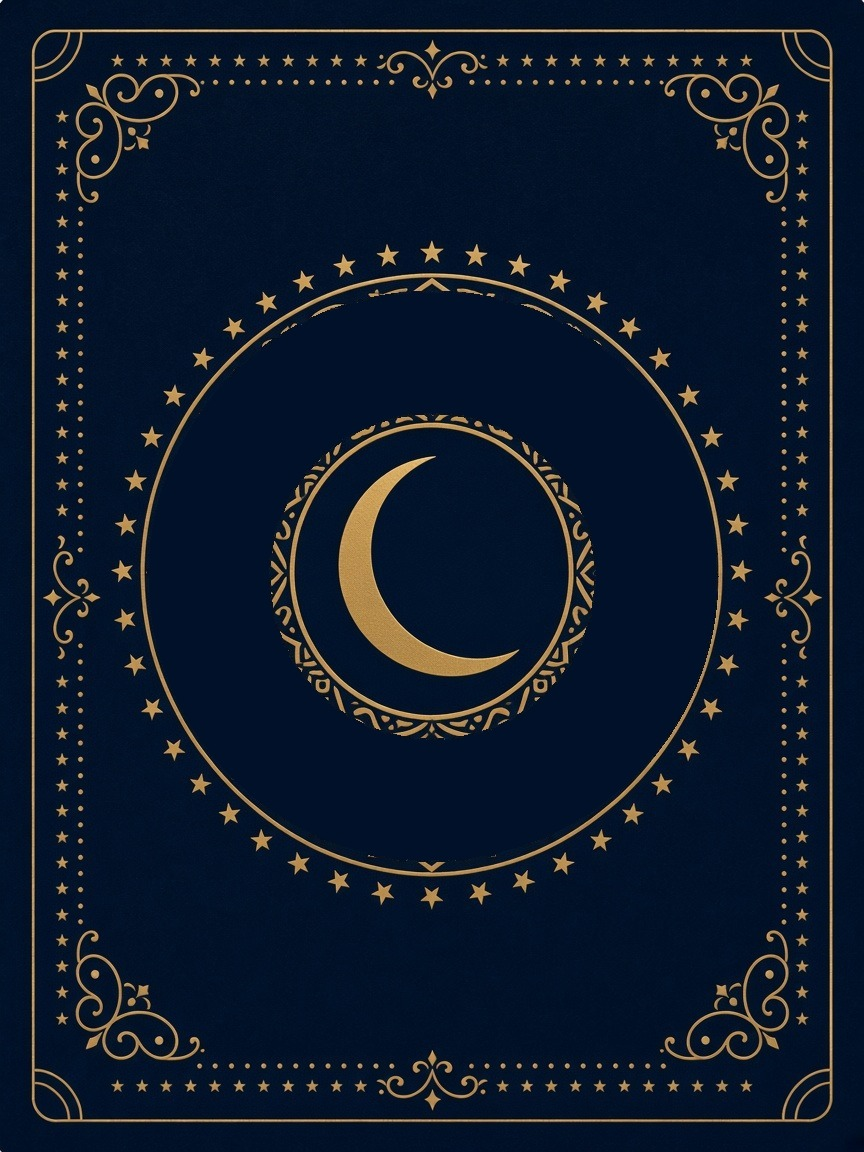
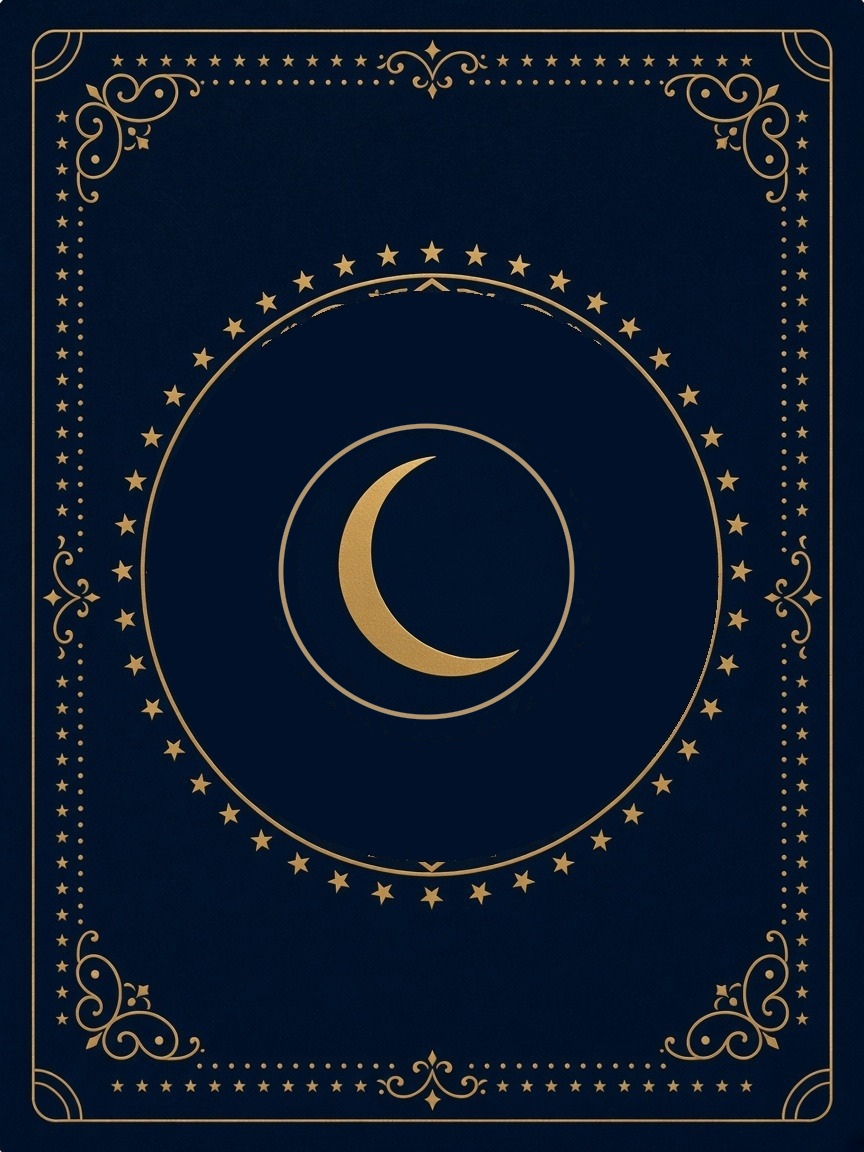
타로에서 다시 고르면 카드가 옆면으로 돌아 바뀌고, 뒷면은 채우기와 함께 남색이 되며 태그는 오로라와 같은 폭으로 맞췄습니다.

Changed region(s): [[0.3125, 0.375, 0.6875, 0.6562], [0.4375, 0.3438, 0.625, 0.4062], [0.625, 0.4062, 0.6562, 0.4375]]

diff --git a/js/tarot.js b/js/tarot.js
@@ -137,12 +137,85 @@
   }
 
   /**
+   * 지금 카드의 바탕 덮개입니다. 날아가는 복제 카드는 건드리지 않습니다.
+   */
+  function find_back_wash() {
+    const frame = document.querySelector(".tarot_frame");
+    const wash = frame ? frame.querySelector(".tarot_back_wash") : null;
+    if (!wash) {
+      console.error("카드 바탕 덮개를 찾지 못했습니다. 페이지를 새로고침해 주세요.");
+    }
+    return wash;
+  }
+
+  /**
+   * 남색 픽셀만 검정으로 칠합니다. 금색 선과 초승달은 비워 둡니다.
+   */
+  function ensure_back_wash(wash) {
+    const image = document.getElementById("tarot_image");
+    if (!wash || !image || !image.naturalWidth || !image.complete) {
+      return;
+    }
+    if (wash.dataset.ready === image.currentSrc && wash.width === image.naturalWidth) {
+      return;
+    }
+    const view = wash.getContext("2d");
+    if (!view) {
+      return;
+    }
+    wash.width = image.naturalWidth;
+    wash.height = image.naturalHeight;
+    view.drawImage(image, 0, 0, wash.width, wash.height);
+    const frame = view.getImageData(0, 0, wash.width, wash.height);
+    const data = frame.data;
+    for (let index = 0; index < data.length; index += 4) {
+      const red = data[index];
+      const green = data[index + 1];
+      const blue = data[index + 2];
+      const is_gold = red > 70 && red > blue + 18 && green + 15 > blue;
+      if (is_gold) {
+        data[index + 3] = 0;
+      } else {
+        data[index] = 0;
+        data[index + 1] = 0;
+        data[index + 2] = 0;
+        data[index + 3] = 255;
+      }
+    }
+    view.putImageData(frame, 0, 0);
+    wash.dataset.ready = image.currentSrc;
+  }
+
+  /**
+   * 채우기 진행만큼 검정 덮개를 걷습니다. 1이면 검정, 0이면 남색입니다.
+   */
+  function paint_back_wash(black_amount) {
+    const wash = find_back_wash();
+    if (!wash) {
+      return;
+    }
+    try {
+      ensure_back_wash(wash);
+      const amount = Math.max(0, Math.min(1, black_amount));
+      wash.style.opacity = String(amount);
+    } catch (error) {
+      console.error("카드 바탕색을 바꾸지 못했습니다. 페이지를 새로고침해 주세요.", error);
+      wash.style.opacity = "0";
+    }
+  }
+
+  /**
    * 그리기를 멈춥니다. 앞면으로 바꿀 때 호출합니다.
    */
   function stop_back_weave() {
     weave_token += 1;
     clear_canvas("tarot_weave");
     clear_canvas("tarot_glint");
+    const frame = document.querySelector(".tarot_frame");
+    const wash = frame ? frame.querySelector(".tarot_back_wash") : null;
+    if (wash) {
+      wash.style.opacity = "0";
+    }
   }
 
   /**
@@ -156,6 +229,7 @@
     if (!canvas || !glint) {
       return;
     }
+    paint_back_wash(1);
     load_weave_images().then(function (filigree) {
       if (token !== weave_token) {
         return;
@@ -239,6 +313,7 @@
           drawn += 1;
         }
         paint_glints(now);
+        paint_back_wash(1 - progress);
         if (progress < 1 || glints.length) {
           window.requestAnimationFrame(draw_lines);
         }
@@ -247,6 +322,7 @@
       window.requestAnimationFrame(draw_lines);
     }).catch(function (error) {
       console.error("카드 무늬를 그리지 못했습니다. 완성된 뒷면을 보여 줍니다.", error);
+      paint_back_wash(0);
       const image = document.getElementById("tarot_image");
       if (image && root.TAROT_FOLDER && root.TAROT_BACK) {
         image.src = root.TAROT_FOLDER + root.TAROT_BACK + "?v=20261116m";
@@ -335,9 +411,9 @@
       } else if (is_opening_plain) {
         // 첫 화면에서 화면을 넘길 때는 문양이 없는 뒷면만 보여 줍니다.
         stop_back_weave();
-        image.src = root.TAROT_FOLDER + "back_plain.jpg?v=20261117k";
+        image.src = root.TAROT_FOLDER + "back_plain.jpg?v=20261119i";
       } else {
-        image.src = root.TAROT_FOLDER + "back_plain.jpg?v=20261117k";
+        image.src = root.TAROT_FOLDER + "back_plain.jpg?v=20261119i";
         start_back_weave();
       }
       reading.hidden = true;
@@ -414,7 +490,49 @@
   }
 
   /**
+   * 이미 열린 카드를 옆면까지 돌리고, 그 자리에서 다음 카드로 바꿉니다.
+   */
+  function turn_tarot_to_next(card) {
+    const frame = document.querySelector(".tarot_frame");
+    const next_src = root.TAROT_FOLDER + card.file + "?v=20261115q";
+    const loader = new Image();
+    loader.src = next_src;
+    if (!frame || prefers_still_motion()) {
+      show_tarot_front(card);
+      window.scrollTo(0, 0);
+      return;
+    }
+    is_card_flying = true;
+    frame.style.transition = "transform 350ms ease-in";
+    frame.style.transform = "rotateY(90deg)";
+    window.setTimeout(function show_next_tarot_face() {
+      try {
+        show_tarot_front(card);
+        frame.style.transition = "none";
+        frame.style.transform = "rotateY(-90deg)";
+        window.requestAnimationFrame(function open_next_tarot_face() {
+          frame.style.transition = "transform 350ms ease-out";
+          frame.style.transform = "rotateY(0deg)";
+          window.setTimeout(function finish_tarot_turn() {
+            frame.style.transition = "";
+            frame.style.transform = "";
+            is_card_flying = false;
+          }, 380);
+        });
+      } catch (error) {
+        console.error("다음 타로 카드를 보여주지 못했습니다. 다시 눌러 주세요.", error);
+        frame.style.transition = "";
+        frame.style.transform = "";
+        is_card_flying = false;
+        show_tarot_status("카드를 바꾸지 못했습니다. 잠시 후 다시 눌러 주세요.");
+      }
+    }, 350);
+    window.scrollTo(0, 0);
+  }
+
+  /**
    * 다음 카드의 앞면과 한 줄, 질문을 보여 줍니다.
+   * 앞면이 이미 있으면 옆면으로 돌린 뒤 바꿉니다.
    */
   function flip_tarot_card() {
     try {
@@ -425,8 +543,7 @@
       if (!card) {
         return;
       }
-      show_tarot_front(card);
-      window.scrollTo(0, 0);
+      turn_tarot_to_next(card);
     } catch (error) {
       console.error("타로 카드를 뒤집지 못했습니다. 다시 눌러 주세요.", error);
       show_tarot_status("카드를 뒤집지 못했습니다. 잠시 후 다시 눌러 주세요.");

diff --git a/index.html b/index.html
@@ -23,8 +23,8 @@
   <link rel="preconnect" href="https://fonts.googleapis.com">
   <link rel="preconnect" href="https://fonts.gstatic.com" crossorigin>
   <link href="https://fonts.googleapis.com/css2?family=Noto+Serif+KR:wght@400;500;600;700&family=Plus+Jakarta+Sans:wght@400;500;600;700&display=swap" rel="stylesheet">
-  <link rel="stylesheet" href="css/style.css?v=20261119f">
-  <link rel="stylesheet" href="css/aurora.css?v=20261118o">
+  <link rel="stylesheet" href="css/style.css?v=20261119l">
+  <link rel="stylesheet" href="css/aurora.css?v=20261119l">
   <link rel="stylesheet" href="css/relation.css">
   <!-- 화면이 그려지기 전에 디자인을 정해야 색이 깜빡이지 않습니다. -->
   <script src="js/constants.js?v=20261118c"></script>
@@ -205,9 +205,11 @@
           <!-- 타로에서만 보입니다. 처음에는 뒷면이고, 뒤집으면 앞면과 질문이 나옵니다. -->
           <div id="tarot_stage" class="tarot_stage">
             <div class="tarot_frame">
-              <img id="tarot_image" class="tarot_image" src="images/tarot/back_plain.jpg?v=20261117k" alt="덮인 타로 카드" width="768" height="1024">
+              <img id="tarot_image" class="tarot_image" src="images/tarot/back_plain.jpg?v=20261119i" alt="덮인 타로 카드" width="768" height="1024">
               <!-- 뒷면 장식. 두 원은 그대로 두고, 그 사이 문양만 그립니다. -->
               <div class="tarot_back_motion" aria-hidden="true">
+                <!-- 남색 바탕만 검정으로 덮었다가, 채우기 진행만큼 걷어 냅니다. -->
+                <canvas class="tarot_back_wash" aria-hidden="true"></canvas>
                 <canvas id="tarot_weave" class="tarot_weave"></canvas>
                 <canvas id="tarot_glint" class="tarot_weave"></canvas>
                 <div class="tarot_moon_cover"></div>
@@ -467,11 +469,11 @@
   <script src="js/vignettes.js"></script>
   <script src="js/faces.js"></script>
   <script src="js/tarot_cards.js?v=20261115r"></script>
-  <script src="js/tarot.js?v=20261119f"></script>
+  <script src="js/tarot.js?v=20261119l"></script>
   <script src="js/validate.js"></script>
   <script src="js/picker.js?v=20261118f"></script>
   <script src="js/storage.js"></script>
-  <script src="js/app.js?v=20261118h"></script>
+  <script src="js/app.js?v=20261119l"></script>
   <script src="js/relation.js"></script>
   <script src="js/music.js?v=20261119e"></script>
   <script src="js/face_read.js?v=20261118o"></script>

diff --git a/css/style.css b/css/style.css
@@ -185,6 +185,20 @@ h2 {
   font-weight: 600;
 }
 
+/* 오로라, 타로 태그는 글자 수가 달라도 같은 폭입니다. */
+#design_aurora,
+#design_tarot {
+  box-sizing: border-box;
+  width: 4.89em;
+  text-align: center;
+}
+
+/* 선택된 타로는 오로라처럼 두 색이 가로로 번집니다. 금색과 타로의 푸른색, 짙은 글자색입니다. */
+:root[data-design="tarot"] .design_button[aria-pressed="true"] {
+  background: linear-gradient(90deg, #e8c176, #5d78d6);
+  color: #412d00;
+}
+
 /* 인간관계 오른쪽의 음악 목록. 막대 높이를 밀지 않도록 아래에 겹칩니다. */
 .music_box {
   position: relative;
@@ -1191,6 +1205,7 @@ html.is_slide_to_aurora::view-transition-new(design_stage) {
   gap: 18px;
   width: min(280px, 100%);
   margin: 0 auto;
+  perspective: 1200px;
 }
 
 .tarot_frame {
@@ -1201,6 +1216,7 @@ html.is_slide_to_aurora::view-transition-new(design_stage) {
   overflow: hidden;
   background: #141824;
   box-shadow: 0 18px 36px -18px rgba(0, 0, 0, 0.55);
+  transform-style: preserve-3d;
 }
 
 .tarot_image {
@@ -1317,6 +1333,16 @@ html.is_tarot_opening.is_tarot_text .tarot_reading {
   inset: 0;
   width: 100%;
   height: 100%;
+}
+
+/* 카드 바탕만 덮습니다. 금색 선은 비워서 그림이 그대로 보이게 합니다. */
+.tarot_back_wash {
+  position: absolute;
+  inset: 0;
+  width: 100%;
+  height: 100%;
+  opacity: 0;
+  pointer-events: none;
 }
 
 /* 초승달은 반짝이지 않고, 아주 천천히 기울었다가 돌아옵니다. */

diff --git a/js/app.js b/js/app.js
@@ -1078,7 +1078,7 @@
       if (!card) {
         return;
       }
-      // 오로라와 타로는 그림이 가운데 나타났다가 문장 쪽으로 올라갑니다. 포커스가 스크롤을 가로채지 않게 합니다.
+      // 오로라는 그림이 가운데 나타났다가 문장 쪽으로 올라갑니다. 포커스가 스크롤을 가로채지 않게 합니다.
       if (uses_card_arrival()) {
         els.card_lead.focus({ preventScroll: true });
         play_aurora_arrival();
